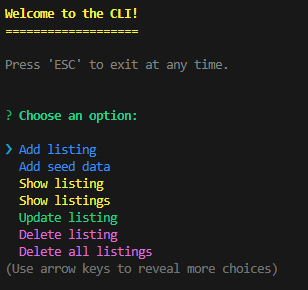
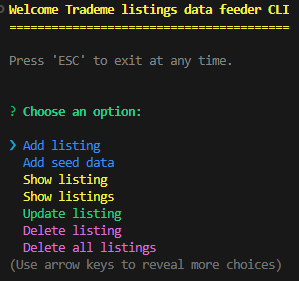
Updated README.md

diff --git a/CLI.js b/CLI.js
@@ -63,8 +63,8 @@ const runCLI = async () => {
   }
 
   console.clear(); // Clear the console
-  console.log(chalk.yellowBright(chalk.bold("Welcome to the CLI!"))); // Welcome message
-  console.log(chalk.yellowBright(chalk.bold("===================\n")));
+  console.log(chalk.yellowBright(chalk.bold("Welcome Trademe listings data feeder CLI"))); // Welcome message
+  console.log(chalk.yellowBright(chalk.bold("========================================\n")));
   console.log(chalk.gray("Press 'ESC' to exit at any time.\n\n")); // Exit message
 
   while (keepRunning) {
